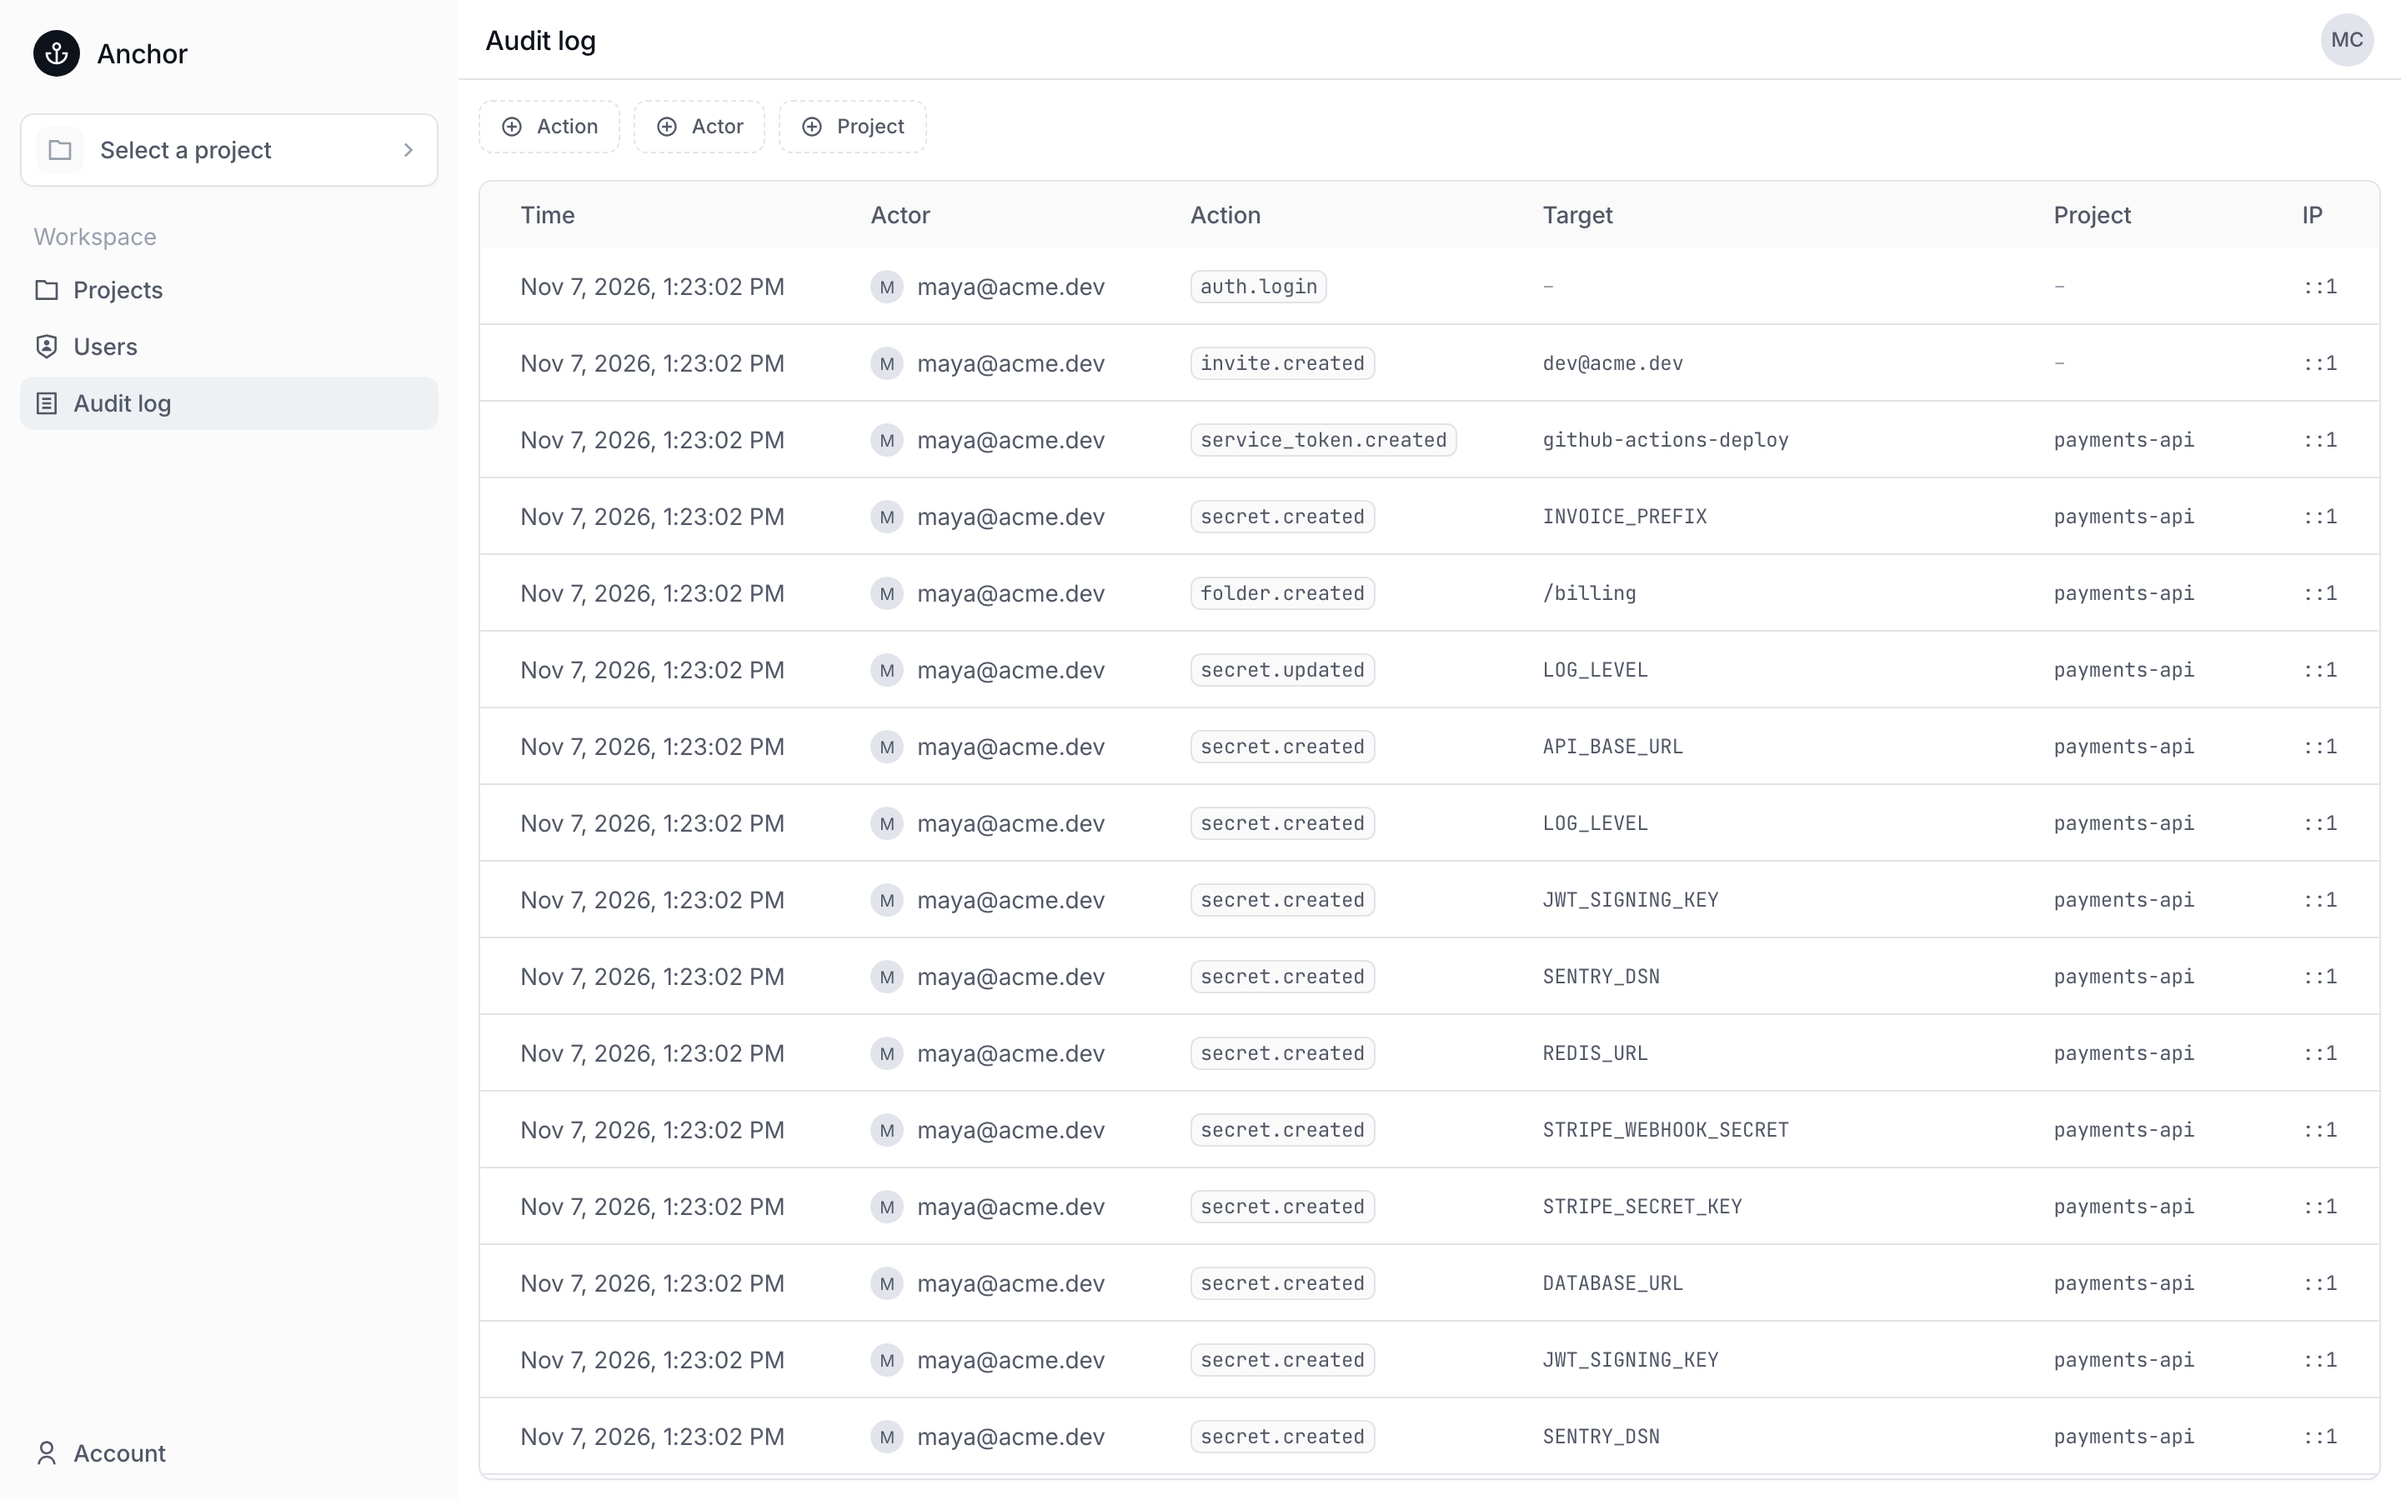
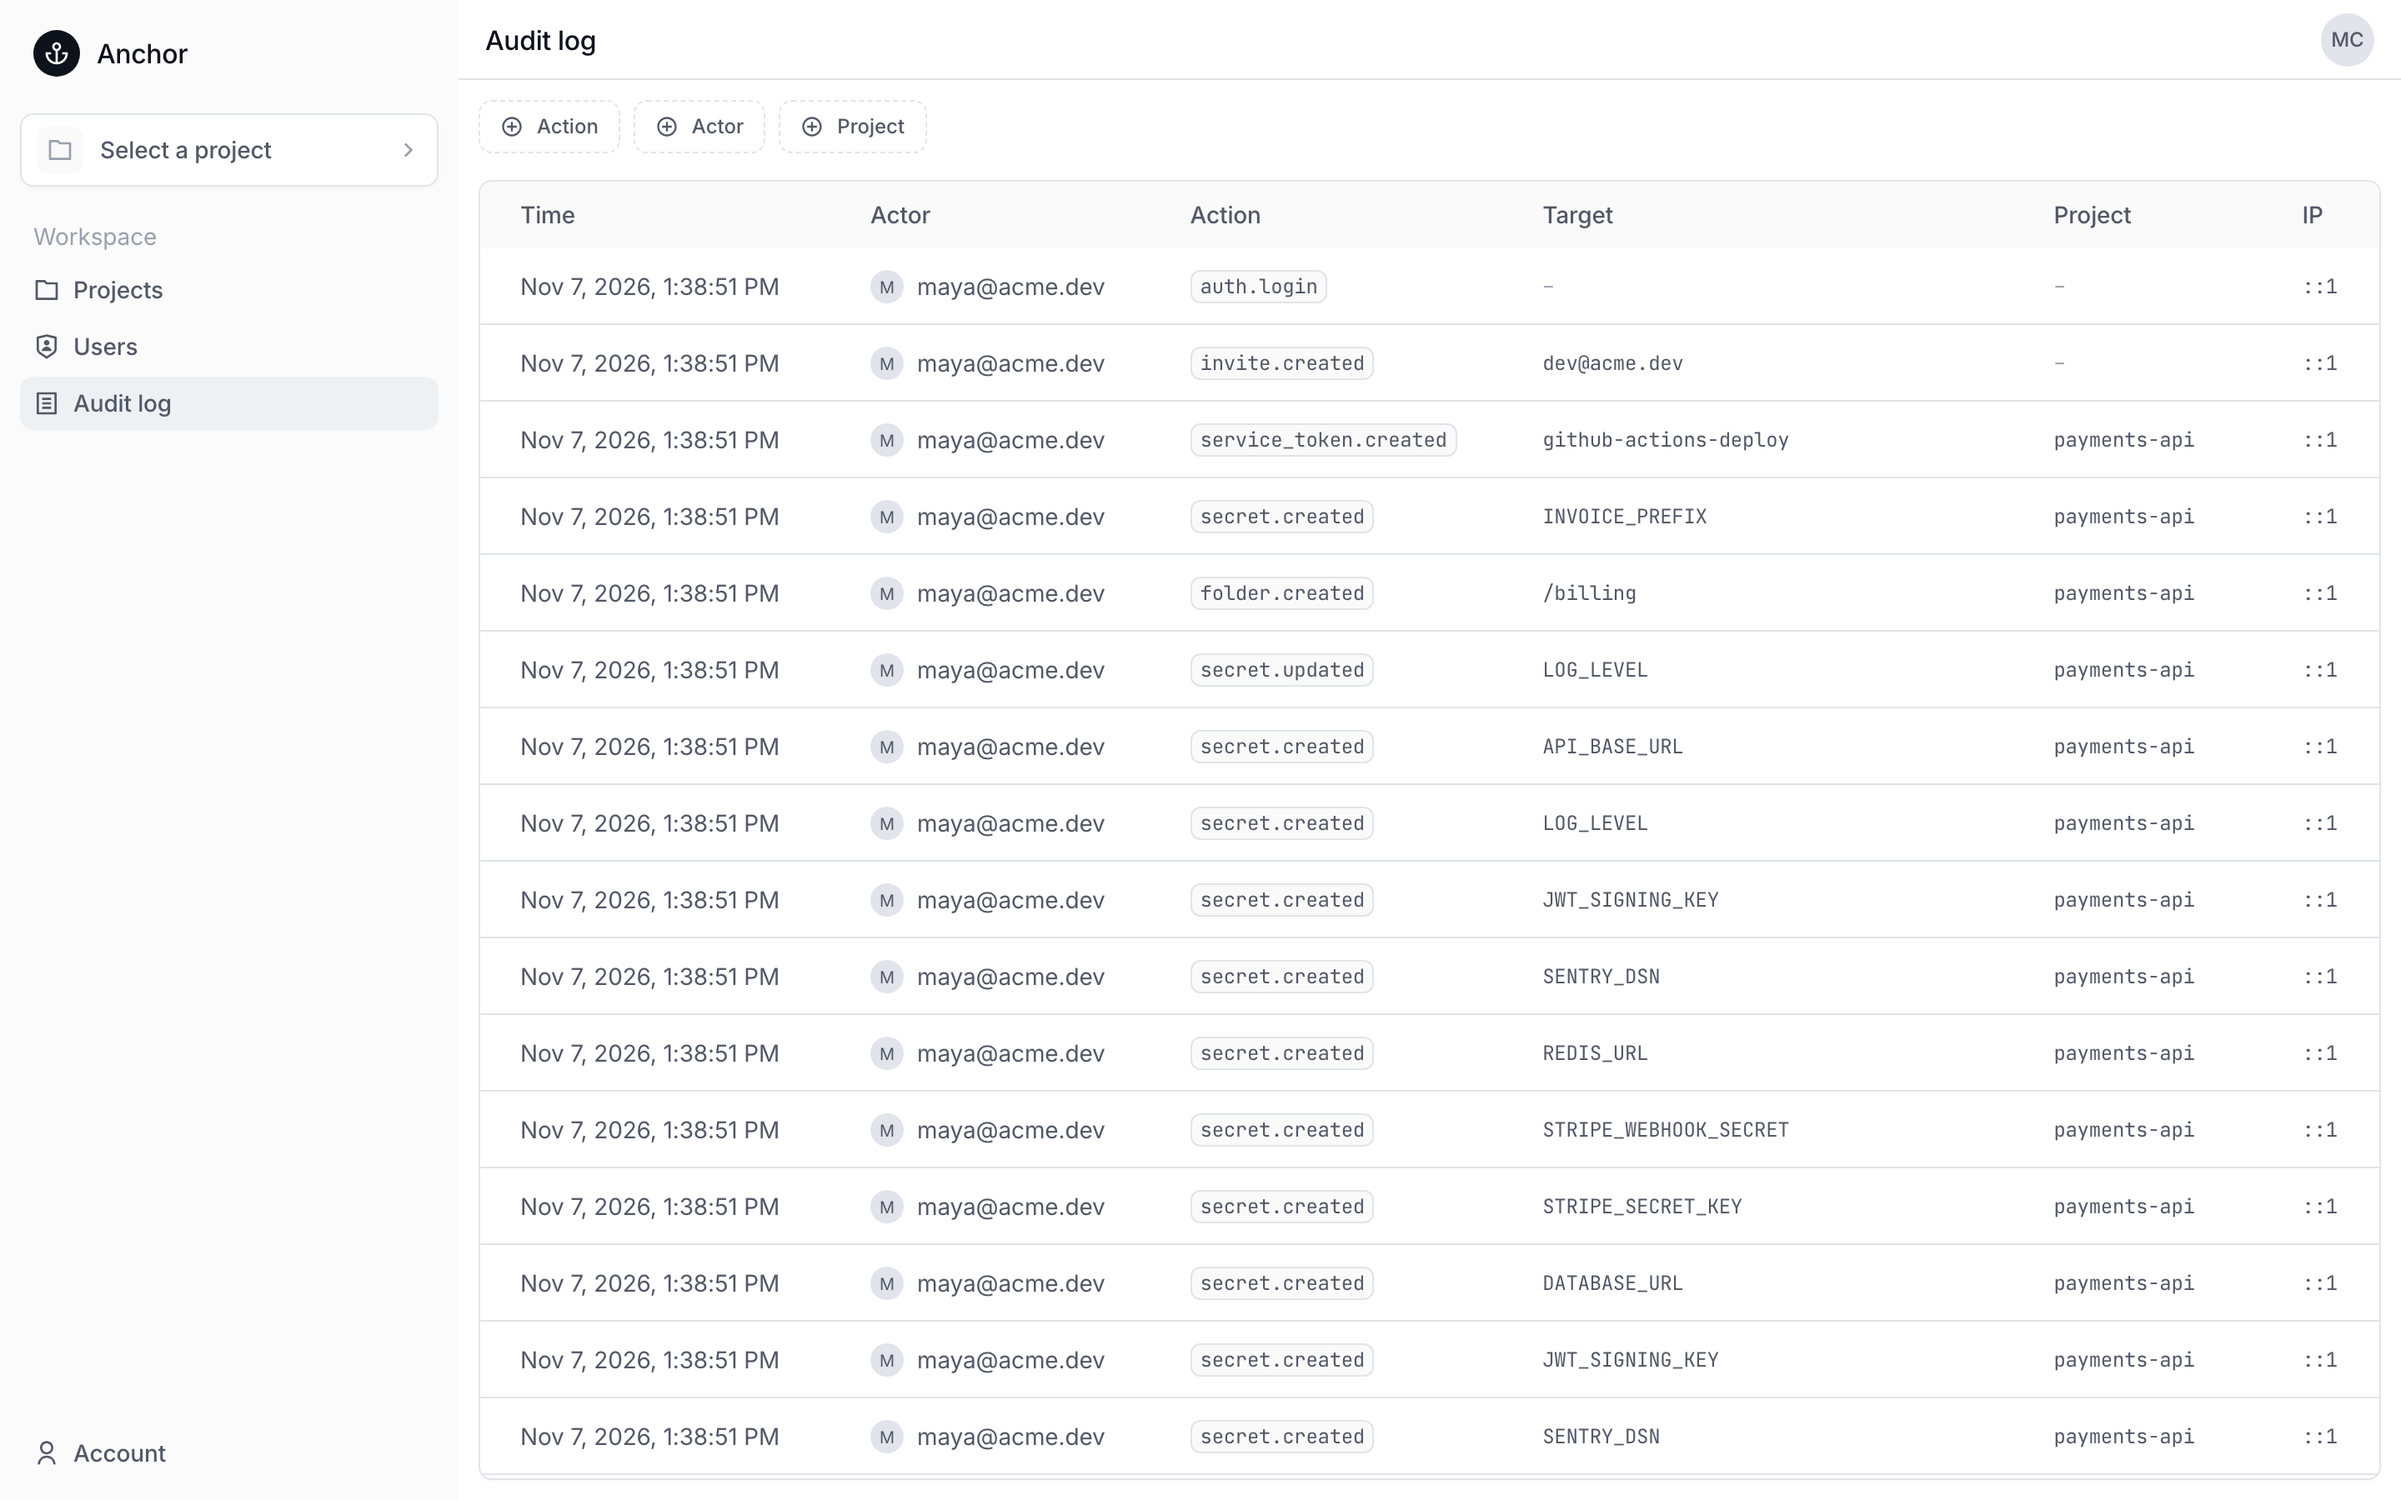
fix(cli): no keychain warning when the file store was chosen explicitly
ANCHOR_CREDENTIAL_STORE=file is the user's choice, so the 'No OS keychain available' warning was false there. A real fallback still warns. Re-recorded the README GIF, which showed the warning and a local temp path.

diff --git a/apps/cli/test/integration/credentials/file.test.ts b/apps/cli/test/integration/credentials/file.test.ts
@@ -2,9 +2,10 @@ import { chmod, stat, writeFile } from "node:fs/promises";
 import { join } from "node:path";
 import { describe, expect, it } from "vitest";
 import { createFileStore } from "#src/credentials/file";
+import { selectCredentialStore } from "#src/credentials/select";
 import { CliError } from "#src/errors";
 import { Output } from "#src/output";
-import { createTestIo, tmpDir } from "#test/support";
+import { createTestIo, fakeSpawner, tmpDir } from "#test/support";
 
 const a = { apiUrl: "https://a.example", token: "anc_s_a", email: "a@b.c", expiresAt: 5 };
 const b = { apiUrl: "https://b.example", token: "anc_s_b", email: "b@b.c", expiresAt: 6 };
@@ -69,4 +70,45 @@ describe("file credential store", () => {
     );
     expect(await s.store.get(a.apiUrl)).toBeNull();
   });
+
+  it.skipIf(process.platform === "win32")(
+    "an explicit ANCHOR_CREDENTIAL_STORE=file stores quietly; a missing keychain still warns",
+    async () => {
+      const chosen = createTestIo({
+        platform: "darwin",
+        env: { ANCHOR_CREDENTIAL_STORE: "file", XDG_CONFIG_HOME: await tmpDir() },
+      });
+      const outChosen = new Output(chosen, {
+        json: false,
+        quiet: false,
+        noColor: true,
+        debug: false,
+      });
+      const explicit = await selectCredentialStore(chosen, {
+        spawner: fakeSpawner().spawner,
+        out: outChosen,
+      });
+      await explicit.set(a);
+      expect(await explicit.get(a.apiUrl)).toEqual(a);
+      expect(chosen.err()).toBe("");
+
+      // No keychain on this platform: the fallback is not the user's choice, so it still warns.
+      const fallback = createTestIo({
+        platform: "linux",
+        env: { XDG_CONFIG_HOME: await tmpDir() },
+      });
+      const outFallback = new Output(fallback, {
+        json: false,
+        quiet: false,
+        noColor: true,
+        debug: false,
+      });
+      const auto = await selectCredentialStore(fallback, {
+        spawner: fakeSpawner().spawner,
+        out: outFallback,
+      });
+      await auto.set(a);
+      expect(fallback.err()).toMatch(/^warning: No OS keychain available; credentials stored in /);
+    },
+  );
 });

diff --git a/apps/cli/src/credentials/file.ts b/apps/cli/src/credentials/file.ts
@@ -7,9 +7,16 @@ import { type CredentialStore, parseCredential, type StoredCredential } from "./
 
 type FileShape = { version: 1; credentials: Record<string, unknown> };
 
-/** Fallback store: one JSON file, mode 0600, in a 0700 directory. */
-export function createFileStore(path: string, out: Output): CredentialStore {
-  let warned = false;
+/**
+ * Fallback store: one JSON file, mode 0600, in a 0700 directory. It warns on first write unless the
+ * user chose it (`ANCHOR_CREDENTIAL_STORE=file`): the warning exists for a fallback they did not pick.
+ */
+export function createFileStore(
+  path: string,
+  out: Output,
+  opts: { chosen?: boolean } = {},
+): CredentialStore {
+  let warned = opts.chosen === true;
 
   async function load(): Promise<FileShape> {
     let mode: number;

diff --git a/apps/cli/src/credentials/select.ts b/apps/cli/src/credentials/select.ts
@@ -57,8 +57,11 @@ export async function selectCredentialStore(
   io: Io,
   deps: { spawner: Spawner; out: Output },
 ): Promise<CredentialStore> {
-  const file = createFileStore(join(userConfigDir(io), "credentials.json"), deps.out);
-  if (io.env.ANCHOR_CREDENTIAL_STORE === "file") return file;
+  const path = join(userConfigDir(io), "credentials.json");
+  if (io.env.ANCHOR_CREDENTIAL_STORE === "file") {
+    return createFileStore(path, deps.out, { chosen: true });
+  }
+  const file = createFileStore(path, deps.out);
   if (io.platform === "darwin" && (await canSpawn(deps.spawner, "security", ["list-keychains"]))) {
     return withFileFallback(createMacosKeychainStore(deps.spawner), file, deps.out);
   }
